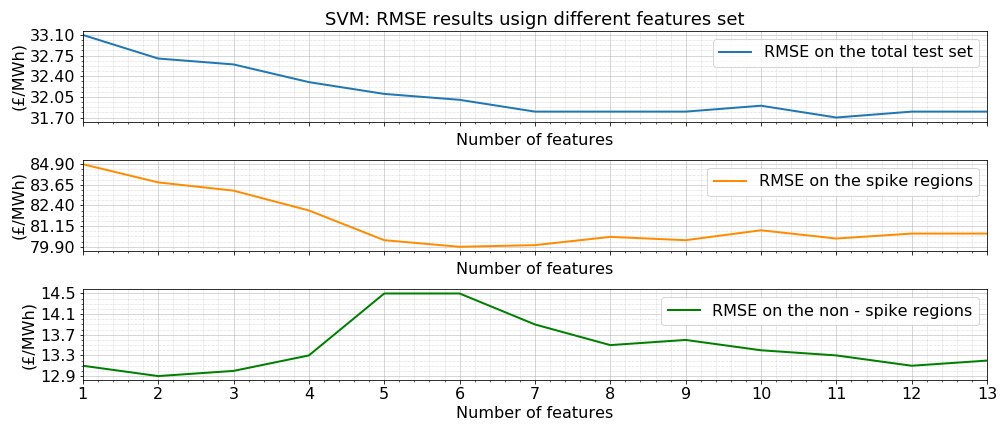
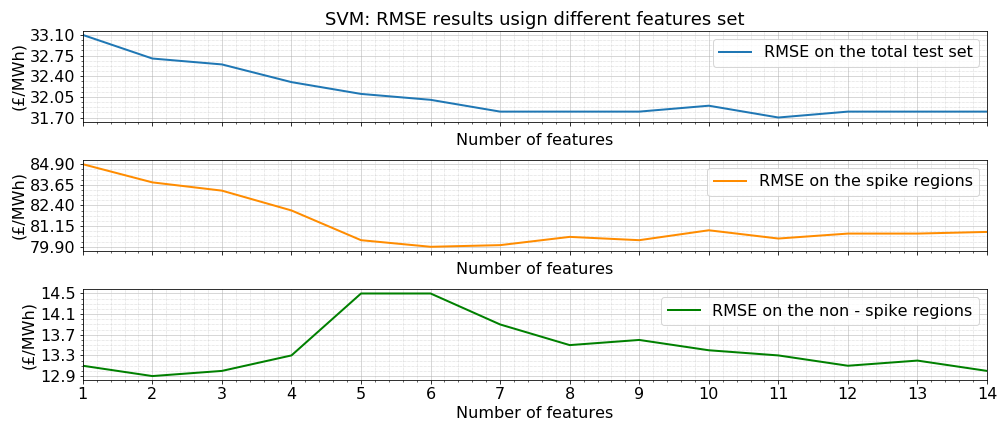
Same modification as before - changing the FS graphs so the whole feature set is added at the end]

diff --git a/SVM_Final/Plot_SVM_FS_Results.py b/SVM_Final/Plot_SVM_FS_Results.py
@@ -24,44 +24,41 @@ fontsize = 16
 plt.figure(figsize = (14,6))
 
 plt.subplot(3, 1, 1)
-plt.plot(np.arange(1, (14)), rmse_gen, label = 'RMSE on the total test set', linewidth = 2)
-plt.xlim(0.5, 13.5)
+plt.plot(np.arange(1,(15)), rmse_gen, label = 'RMSE on the total test set', linewidth = 2)
 plt.minorticks_on()
 plt.grid(which='major', linestyle='-', linewidth='0.5')
 plt.grid(which='minor', linestyle=':', linewidth='0.5')
 plt.xlabel('Number of features', fontsize = fontsize)
 plt.ylabel('(£/MWh)', fontsize = fontsize)
-plt.xlim(1, 12)
-plt.xticks([1,2,3,4,5,6,7,8,9,10,11,12,13], [], fontsize = fontsize)
+plt.xlim(1, 14)
+plt.xticks([1,2,3,4,5,6,7,8,9,10,11,12,13,14], [], fontsize = fontsize)
 plt.yticks(np.linspace(rmse_gen.min(), rmse_gen.max(), 5), fontsize = fontsize)
 plt.title('SVM: RMSE results usign different features set', fontsize = fontsize + 2)
 plt.legend(loc = 'upper right', fontsize = fontsize)
 
 
 plt.subplot(3, 1, 2)
-plt.plot(np.arange(1, (14)), rmse_spi, label = 'RMSE on the spike regions', linewidth = 2, color = 'darkorange')
-plt.xlim(0.5, 13.5)
+plt.plot(np.arange(1,(15)), rmse_spi, label = 'RMSE on the spike regions', linewidth = 2, color = 'darkorange')
 plt.minorticks_on()
 plt.grid(which='major', linestyle='-', linewidth='0.5')
 plt.grid(which='minor', linestyle=':', linewidth='0.5')
 plt.xlabel('Number of features', fontsize = fontsize)
 plt.ylabel('(£/MWh)', fontsize = fontsize)
-plt.xlim(1, 12)
-plt.xticks([1,2,3,4,5,6,7,8,9,10,11,12,13],[], fontsize = fontsize)
+plt.xlim(1, 14)
+plt.xticks([1,2,3,4,5,6,7,8,9,10,11,12,13,14],[], fontsize = fontsize)
 plt.yticks(np.linspace(rmse_spi.min(), rmse_spi.max(), 5), fontsize = fontsize)
 plt.legend(loc = 'upper right', fontsize = fontsize)
 
 
 plt.subplot(3, 1, 3)
-plt.plot(np.arange(1, (14)), rmse_nor, label = 'RMSE on the non - spike regions', linewidth = 2, color = 'green')
-plt.xlim(0.5, 13.5)
+plt.plot(np.arange(1,(15)), rmse_nor, label = 'RMSE on the non - spike regions', linewidth = 2, color = 'green')
 plt.minorticks_on()
 plt.grid(which='major', linestyle='-', linewidth='0.5')
 plt.grid(which='minor', linestyle=':', linewidth='0.5')
 plt.xlabel('Number of features', fontsize = fontsize)
 plt.ylabel('(£/MWh)', fontsize = fontsize)
-plt.xlim(1, 12)
-plt.xticks([1,2,3,4,5,6,7,8,9,10,11,12,13], fontsize = fontsize)
+plt.xlim(1, 14)
+plt.xticks([1,2,3,4,5,6,7,8,9,10,11,12,13,14], fontsize = fontsize)
 plt.yticks(np.linspace(rmse_nor.min(), rmse_nor.max(), 5), fontsize = fontsize)
 plt.legend(loc = 'upper right', fontsize = fontsize)
 plt.tight_layout()

diff --git a/SVM_Final/Regression_SVM_FS.py b/SVM_Final/Regression_SVM_FS.py
@@ -68,7 +68,7 @@ f_chosen_ = []
 # =============================================================================
 # Feature selection loop for different number of features to select
 # =============================================================================
-for i in range(1, len(X.columns)):
+for i in range(1, len(X.columns) + 1):
     
     # create feature selector
     selector = RFE(regressor, n_features_to_select = i, step = 1)
@@ -82,7 +82,7 @@ for i in range(1, len(X.columns)):
     f_chosen = f_chosen[f_chosen != '']
     f_chosen_.append(f_chosen)
 
-results_fs = pd.DataFrame({'n_features_to_select': (list(range(1, 14))),
+results_fs = pd.DataFrame({'n_features_to_select': (list(range(1, 15))),
                           
                            'features_chosen': f_chosen_})
 
